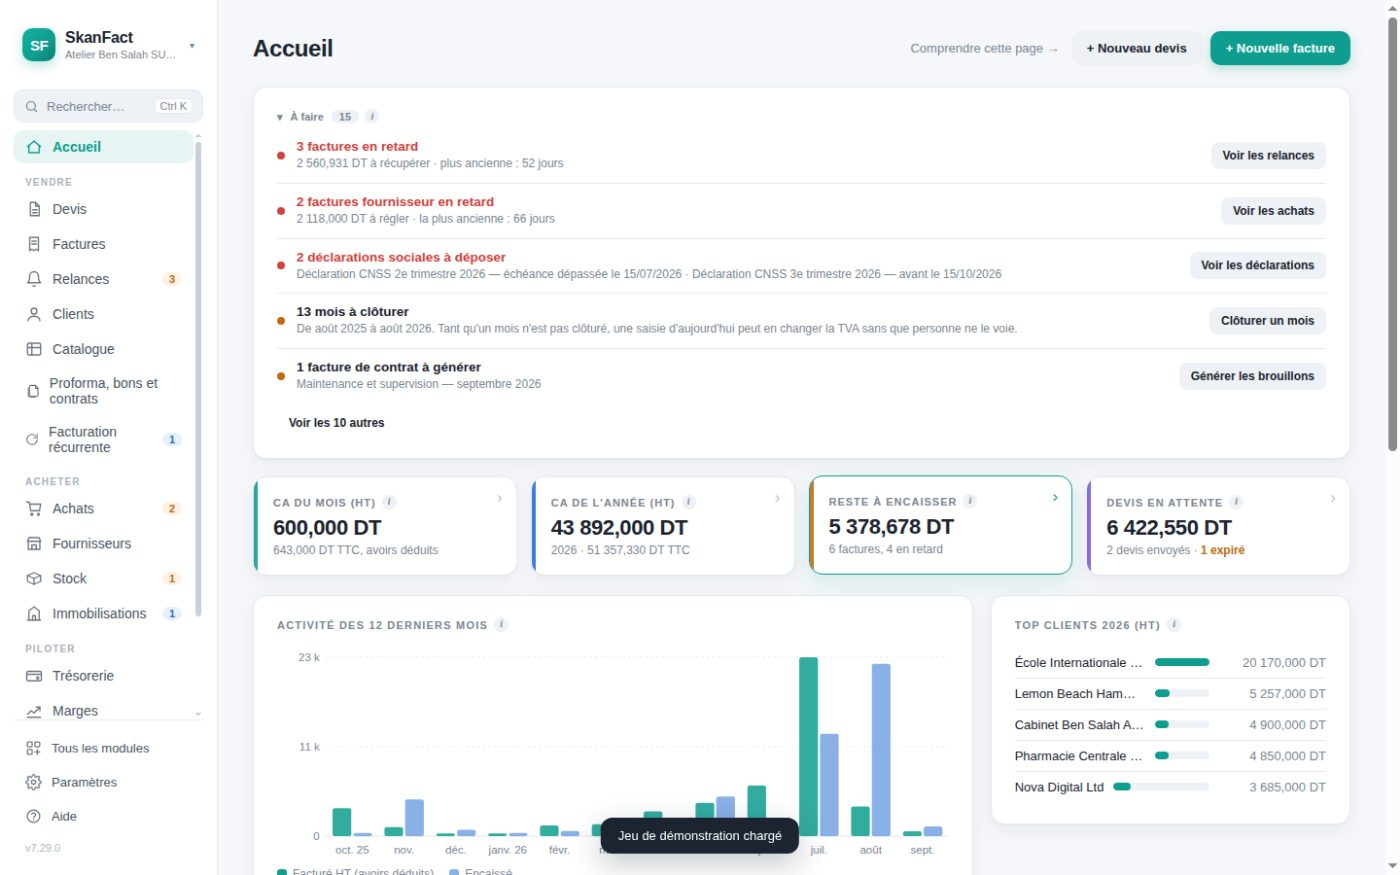
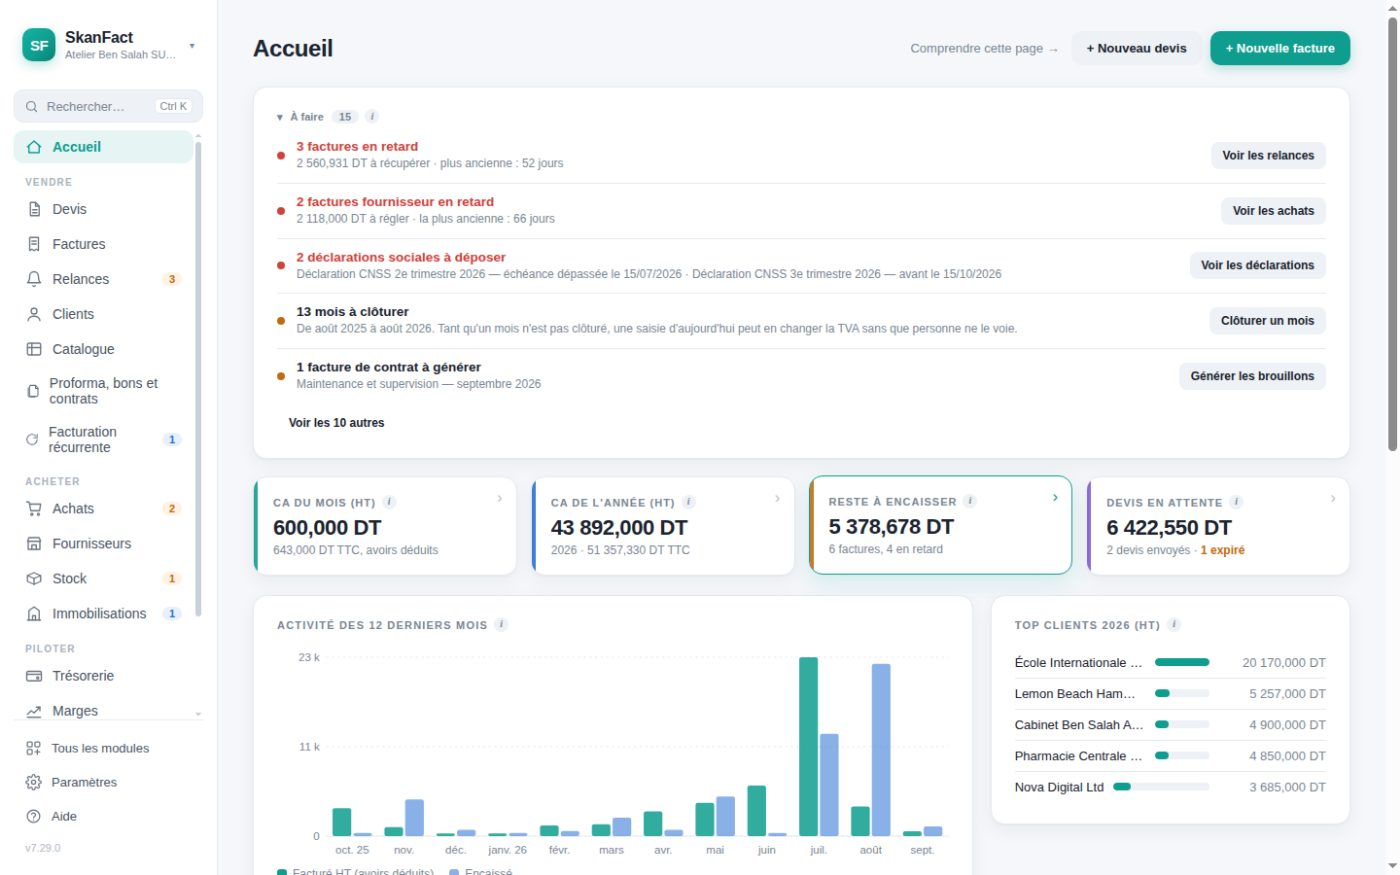
Ne plus couper les images des quatre cartes
Le cadre 16/9 que j'avais posé pour aligner les quatre titres recadrait les
images : la droite était coupée, donc les montants tronqués et les phrases
inachevées. Aligner des titres ne vaut pas de mutiler ce qu'on montre.

Les quatre cartes reprennent les écrans entiers. Ils ont tous le même rapport,
donc les titres s'alignent d'eux-mêmes, sans rien couper.

Au passage, le bandeau « Jeu de démonstration chargé » était cuit dans la
capture des factures, sur la page d'accueil. Les images sont reprises du lot
corrigé.

Claude-Session: https://claude.ai/code/session_01DzDf3k9tyEqrUmYnLqLjQN

Changed region(s): [[0.43, 0.9257, 0.5836, 1.0]]

diff --git a/index.html b/index.html
@@ -111,7 +111,10 @@
       <div class="cartes">
         <a class="carte" href="facturation.html">
           <div class="vign">
-            <img src="img/d-factures@small.jpg" alt="Les factures de SkanFact avec leur statut déduit des règlements." width="620" height="307" loading="lazy">
+            <img src="img/factures@small.jpg"
+                 srcset="img/factures@small.jpg 720w, img/factures.jpg 1400w"
+                 sizes="(max-width: 900px) 100vw, 508px"
+                 alt="La liste des factures de SkanFact : numéro, client, montant, et le statut déduit des règlements." width="1400" height="875" loading="lazy">
           </div>
           <b>Devis et factures</b>
           <p>Le devis se transforme en facture d'un clic. Les statuts « payée », « partielle »,
@@ -120,7 +123,10 @@
         </a>
         <a class="carte" href="gestion.html">
           <div class="vign">
-            <img src="img/d-tresorerie@small.jpg" alt="La courbe du solde prévu, et le jour où il passe sous zéro." width="620" height="242" loading="lazy">
+            <img src="img/tresorerie@small.jpg"
+                 srcset="img/tresorerie@small.jpg 720w, img/tresorerie.jpg 1400w"
+                 sizes="(max-width: 900px) 100vw, 508px"
+                 alt="La page Trésorerie : la courbe du solde prévu et le détail des mouvements." width="1400" height="875" loading="lazy">
           </div>
           <b>Achats, stock et trésorerie</b>
           <p>Ce que vous achetez, ce qu'il vous reste sur l'étagère, ce que vous gagnez vraiment, et
@@ -129,7 +135,10 @@
         </a>
         <a class="carte" href="tunisie.html">
           <div class="vign">
-            <img src="img/d-tva@small.jpg" alt="La déclaration de TVA du mois : collectée, déductible, crédit reporté." width="620" height="231" loading="lazy">
+            <img src="img/tva@small.jpg"
+                 srcset="img/tva@small.jpg 720w, img/tva.jpg 1400w"
+                 sizes="(max-width: 900px) 100vw, 508px"
+                 alt="La page Comptabilité, onglet TVA : la déclaration du mois et les douze mois de l'année." width="1400" height="875" loading="lazy">
           </div>
           <b>Les règles d'ici</b>
           <p>Timbre fiscal, TVA à quatre taux avec report de crédit, retenue à la source, échéances :
@@ -138,7 +147,10 @@
         </a>
         <a class="carte" href="comptables.html">
           <div class="vign">
-            <img src="img/d-manque@small.jpg" alt="La liste de ce qui manque avant d'envoyer le dossier au comptable." width="620" height="186" loading="lazy">
+            <img src="img/comptable@small.jpg"
+                 srcset="img/comptable@small.jpg 720w, img/comptable.jpg 1400w"
+                 sizes="(max-width: 900px) 100vw, 508px"
+                 alt="La page Comptabilité, onglet Cabinet : le paquet du mois et ce qui manque avant de l'envoyer." width="1400" height="875" loading="lazy">
           </div>
           <b>Votre comptable</b>
           <p>À la fin du mois, un bouton lui envoie tout : PDF, journaux, écritures. Son application

diff --git a/assets/style.css b/assets/style.css
@@ -461,14 +461,11 @@ legend { font-size: 14px; color: #9fc3bd; padding: 0 0 10px; }
   transition: border-color .18s ease, transform .18s ease, box-shadow .18s ease;
 }
 .carte:hover { border-color: var(--vert); transform: translateY(-2px); box-shadow: var(--ombre-douce); color: var(--encre); }
-/* Quatre recadrages n'ont pas la même hauteur : sans cadre commun, les quatre
-   titres se retrouvent à quatre hauteurs différentes et la grille paraît bancale.
-   On fixe le cadre et on montre le HAUT de l'image, là où vit le titre du panneau. */
-.carte .vign {
-  border-radius: 14px; overflow: hidden; background: var(--creme);
-  border: 1px solid var(--filet); aspect-ratio: 16 / 9;
-}
-.carte .vign img { width: 100%; height: 100%; object-fit: cover; object-position: top left; }
+/* Les quatre vignettes montrent l'image ENTIÈRE. Un cadre de rapport imposé avec
+   `object-fit: cover` alignerait bien les titres, mais en coupant la droite de
+   l'image : montants tronqués, phrases inachevées. Les quatre écrans ayant le même
+   rapport, les titres s'alignent d'eux-mêmes — sans rien couper. */
+.carte .vign { border-radius: 14px; overflow: hidden; background: var(--creme); border: 1px solid var(--filet); }
 .carte b {
   display: block; margin-top: 20px; font-family: "Bricolage Grotesque", sans-serif;
   font-weight: 600; font-size: 21px; letter-spacing: -.025em;
